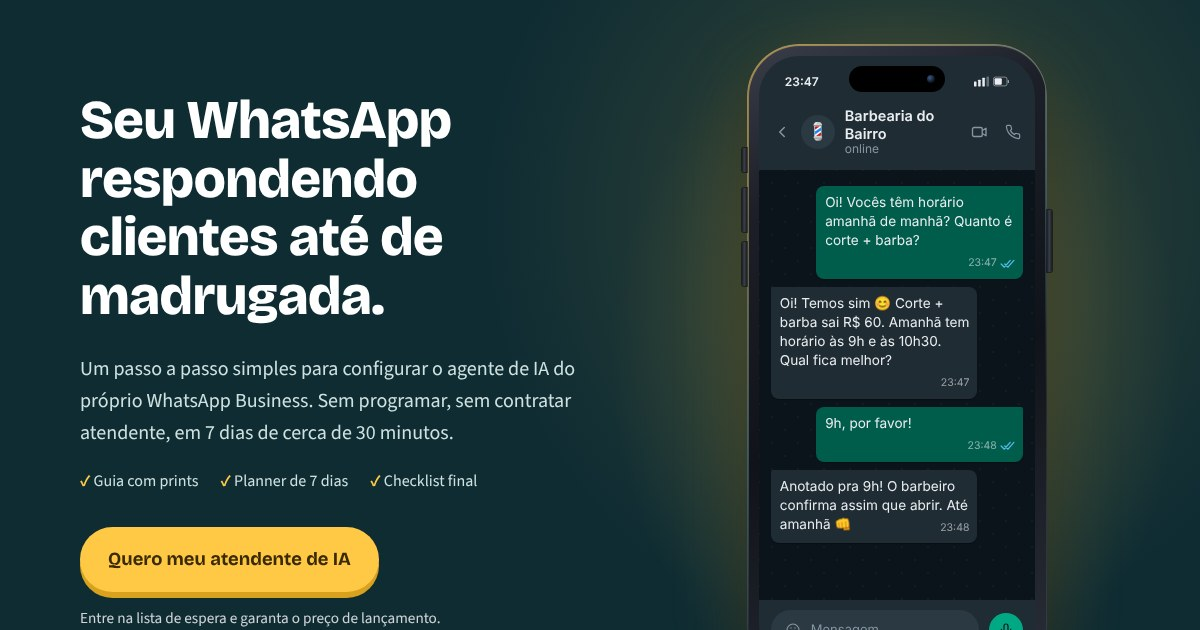
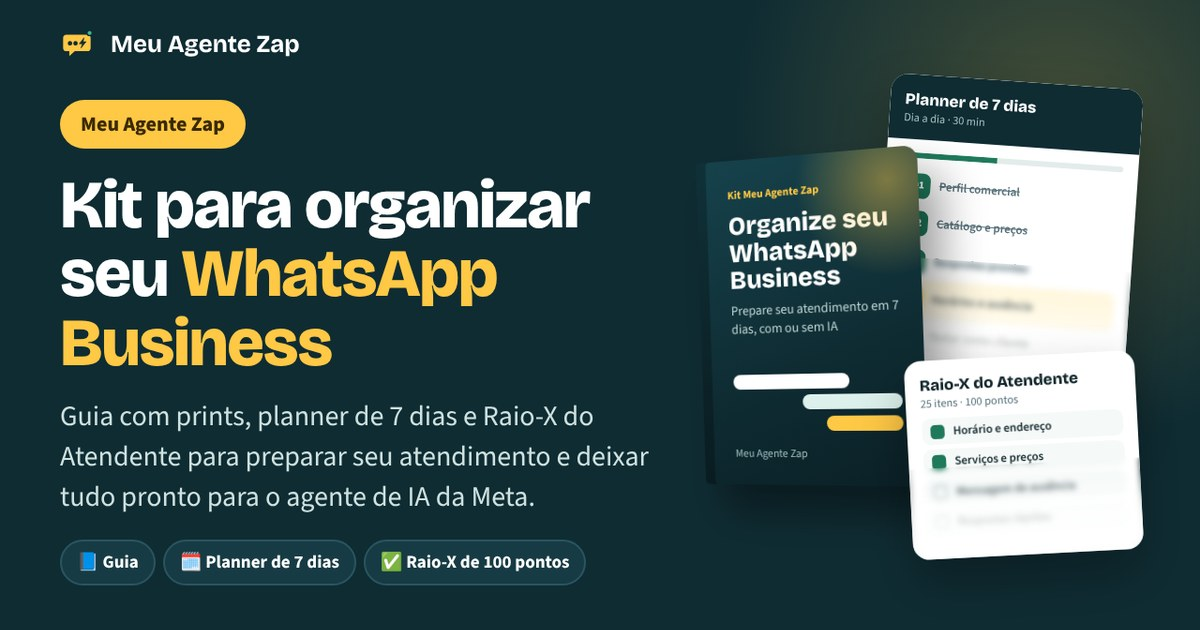
Site: CTAs direto ao checkout, faixa de nichos no mobile, redes sociais e WhatsApp, CTA no meio, hero com botão visível
Claude-Session: https://claude.ai/code/session_01VVXSWQenri3WwETC67snQx

diff --git a/index.html b/index.html
@@ -47,7 +47,7 @@ fbq('track', 'PageView');
 html{scroll-behavior:smooth;scroll-padding-top:84px}
 body{margin:0;background:var(--paper);color:var(--ink);font-family:"Source Sans 3",system-ui,sans-serif;font-size:1.125rem;line-height:1.6;-webkit-font-smoothing:antialiased}
 h1,h2,h3{font-family:"Bricolage Grotesque",system-ui,sans-serif;line-height:1.05;margin:0 0 .45em;letter-spacing:-.02em}
-h1{font-size:clamp(2.5rem,6.6vw,4.6rem);font-weight:800}
+h1{font-size:clamp(2.2rem,5vw,3.3rem);font-weight:800}
 h2{font-size:clamp(1.9rem,4.4vw,3rem);font-weight:800}
 h3{font-size:1.25rem;font-weight:700;letter-spacing:-.01em}
 p{margin:0 0 1em}
@@ -172,10 +172,28 @@ section{padding:96px 0}
 @media(max-width:520px){.float-card{display:none}}
 
 /* Faixa de nichos */
-.niches-band{background:var(--deep);color:#CFE2E0;padding:26px 0;border-top:1px solid rgba(255,255,255,.06)}
-.niches-band .wrap{display:flex;flex-wrap:wrap;align-items:center;justify-content:center;gap:10px 12px}
-.niches-band .lbl{font-weight:600;color:#8FB0B4;margin-right:6px}
+.niches-band{background:var(--deep);color:#CFE2E0;padding:30px 0;border-top:1px solid rgba(255,255,255,.06)}
+.niches-band .wrap{display:flex;flex-direction:column;align-items:center;gap:16px}
+.niches-band .lbl{margin:0;font-weight:700;color:#CFE2E0;font-size:1.05rem;text-align:center}
+.niches-band .chips{display:flex;flex-wrap:wrap;justify-content:center;gap:10px 12px}
+@media(max-width:600px){.niches-band .chips{display:grid;grid-template-columns:1fr 1fr;gap:10px;width:100%;max-width:420px}.niches-band .chip{justify-content:center;padding:10px 8px;font-size:.95rem;text-align:center}}
+.tag .old{font-weight:600;opacity:.8}
+.micro{margin:0 0 22px;font-size:.92rem;color:#9FC0BE}
+@media(max-width:600px){.hero-ctas .btn{width:100%;justify-content:center;text-align:center}.hero-ctas{gap:10px}.micro{margin:0 0 20px}.hero .trust{display:none}}
 .chip{display:inline-flex;align-items:center;gap:8px;font-weight:600;font-size:1rem;padding:8px 16px;border-radius:999px;background:rgba(255,255,255,.06);border:1px solid rgba(255,255,255,.1);color:#E7F1F0}
+
+.midcta{padding:0 0 8px;background:var(--paper,#F3F7F6)}
+.midcta-card{display:flex;flex-wrap:wrap;align-items:center;justify-content:space-between;gap:16px 24px;background:#fff;border:2px solid var(--sun);border-radius:24px;padding:22px 26px;box-shadow:0 10px 30px rgba(15,44,51,.08)}
+.midcta-card strong{display:block;font-family:"Bricolage Grotesque",sans-serif;font-size:1.3rem;color:var(--deep)}
+.midcta-card span{display:block;color:#4A6168;font-size:.98rem;margin-top:2px}
+@media(max-width:600px){.midcta-card{flex-direction:column;align-items:stretch;text-align:center}.midcta-card .btn{width:100%;text-align:center;justify-content:center}}
+
+.helpbox{display:flex;flex-wrap:wrap;align-items:center;justify-content:space-between;gap:16px 24px;margin-top:28px;background:#E2F2EC;border:1px solid #BFE3D3;border-radius:24px;padding:22px 26px}
+.helpbox strong{display:block;font-family:"Bricolage Grotesque",sans-serif;font-size:1.2rem;color:var(--deep)}
+.helpbox span{display:block;color:#35564C;font-size:.98rem;margin-top:2px}
+.btn.wa{background:#1FA855;color:#fff;box-shadow:none;gap:10px}
+.btn.wa:hover{background:#178a45}
+@media(max-width:600px){.helpbox{flex-direction:column;align-items:stretch;text-align:center}.helpbox .btn{justify-content:center}}
 
 /* Antes x depois */
 .compare{display:grid;gap:20px}
@@ -371,6 +389,9 @@ footer{background:var(--deep);color:#8FB0B4;font-size:.95rem;padding:48px 0 120p
 .foot-grid{display:grid;gap:24px}
 @media(min-width:760px){.foot-grid{grid-template-columns:1fr auto;align-items:start}}
 footer nav{display:flex;flex-wrap:wrap;gap:10px 22px}
+.social{display:flex;gap:12px;margin-top:4px}
+.social a{width:44px;height:44px;border-radius:50%;display:grid;place-items:center;background:rgba(255,255,255,.08);color:#fff;transition:background .15s,transform .15s}
+.social a:hover{background:var(--sun);color:var(--deep);transform:translateY(-2px);text-decoration:none}
 footer a{color:#CFE2E0;text-decoration:none}
 footer a:hover{text-decoration:underline}
 .legal{margin-top:28px;padding-top:22px;border-top:1px solid rgba(255,255,255,.08);font-size:.88rem;line-height:1.6}
@@ -414,8 +435,8 @@ footer a:hover{text-decoration:underline}
 .stack li span{display:block;color:#A9C6C4;font-size:.98rem;line-height:1.4}
 .stack li em{font-style:normal;font-size:.78rem;font-weight:800;background:var(--sun);color:var(--sun-ink);padding:2px 9px;border-radius:999px;margin-left:6px;vertical-align:middle}
 .pay-note{display:block;color:var(--muted);font-size:.9rem;margin-top:10px}
-.hero .avail{margin:18px 0 30px}
-@media(max-width:600px){.hero .avail{margin:16px 0 26px}.hero-ctas{margin-top:0}}
+.hero .avail{margin:0 0 26px}.hero-ctas{margin:26px 0 22px}
+@media(max-width:600px){.hero .avail{margin:0 0 22px}.hero-ctas{margin:22px 0 18px}}
 </style>
 </head>
 <body>
@@ -428,7 +449,7 @@ footer a:hover{text-decoration:underline}
       <a href="#kit">O kit</a>
       <a href="#plano">7 dias</a>
       <a href="#faq">Dúvidas</a>
-      <a class="btn" href="#oferta">Quero o kit</a>
+      <a class="btn js-checkout" href="https://pay.hotmart.com/Q107925846F?off=ozc8m0k7" target="_blank" rel="noopener">Quero o kit</a>
     </div>
   </div>
 </nav>
@@ -436,14 +457,15 @@ footer a:hover{text-decoration:underline}
 <header class="hero" id="top">
   <div class="wrap hero-grid">
     <div>
-      <span class="tag">🚀 Kit de lançamento · R$ 37 (depois R$ 47)</span>
+      <span class="tag">🚀 Lançamento: R$ 37 <span class="old">(depois R$ 47)</span></span>
       <h1>Pare de perder cliente no WhatsApp. <span class="hl">Organize seu atendimento em 7 dias.</span></h1>
       <p class="lead">Guia com prints, planner, Raio-X do Atendente e textos prontos para organizar seu WhatsApp Business e responder seus clientes na hora certa. Sem programar: 7 dias, cerca de 30 minutos por dia.</p>
-      <p class="avail">✨ <strong>Com ou sem o agente de IA da Meta</strong>, o kit deixa seu WhatsApp Business pronto para responder rápido, perder menos clientes e vender mais. <a href="#disponibilidade">Veja como funciona</a></p>
       <div class="hero-ctas">
-        <a class="btn" href="#oferta">Quero o kit por R$ 37</a>
+        <a class="btn js-checkout" href="https://pay.hotmart.com/Q107925846F?off=ozc8m0k7" target="_blank" rel="noopener">Quero o kit por R$ 37</a>
         <a class="btn btn-ghost" href="#kit">Ver o que vem no kit</a>
       </div>
+      <p class="micro">🔒 Pagamento único pela Hotmart · acesso imediato por e-mail · garantia de 7 dias</p>
+      <p class="avail">✨ <strong>Com ou sem o agente de IA da Meta</strong>, o kit deixa seu WhatsApp Business pronto para responder rápido, perder menos clientes e vender mais. <a href="#disponibilidade">Veja como funciona</a></p>
       <div class="trust">
         <span><svg width="16" height="16" viewBox="0 0 24 24" fill="none" aria-hidden="true"><path d="M20 6L9 17l-5-5" stroke="currentColor" stroke-width="3" stroke-linecap="round" stroke-linejoin="round"/></svg>Guia passo a passo com prints</span>
         <span><svg width="16" height="16" viewBox="0 0 24 24" fill="none" aria-hidden="true"><path d="M20 6L9 17l-5-5" stroke="currentColor" stroke-width="3" stroke-linecap="round" stroke-linejoin="round"/></svg>Planner de 7 dias</span>
@@ -504,8 +526,8 @@ footer a:hover{text-decoration:underline}
 
 <div class="niches-band">
   <div class="wrap">
-    <span class="lbl">Com textos prontos para</span>
-    <span class="chip">💈 Barbearias</span><span class="chip">💇 Salões de Beleza</span><span class="chip">✨ Clínicas de Estética</span><span class="chip">🦷 Dentistas</span><span class="chip">🩺 Consultórios</span><span class="chip">🐾 Pet Shops</span>
+    <p class="lbl">Textos prontos para o seu tipo de negócio</p>
+    <div class="chips"><span class="chip">💈 Barbearias</span><span class="chip">💇 Salões de Beleza</span><span class="chip">✨ Clínicas de Estética</span><span class="chip">🦷 Dentistas</span><span class="chip">🩺 Consultórios</span><span class="chip">🐾 Pet Shops</span></div>
   </div>
 </div>
 
@@ -640,6 +662,15 @@ footer a:hover{text-decoration:underline}
   </div>
 </section>
 
+<section class="midcta">
+  <div class="wrap">
+    <div class="midcta-card">
+      <div><strong>Kit completo por R$ 37</strong><span>Guia + Planner + Raio-X + Textos prontos · pagamento único · garantia de 7 dias</span></div>
+      <a class="btn js-checkout" href="https://pay.hotmart.com/Q107925846F?off=ozc8m0k7" target="_blank" rel="noopener">Quero o kit por R$ 37</a>
+    </div>
+  </div>
+</section>
+
 <section class="plan dark" id="plano">
   <div class="wrap">
     <div class="sec-head">
@@ -720,7 +751,7 @@ footer a:hover{text-decoration:underline}
         <span class="from">Preço normal R$ 47</span>
         <div class="now"><small>R$</small><span>37</span></div>
         <span class="inst">preço de lançamento · pagamento único</span>
-        <a class="btn" id="cta-checkout" href="https://pay.hotmart.com/Q107925846F?off=ozc8m0k7" target="_blank" rel="noopener">Garantir meu kit por R$ 37</a>
+        <a class="btn js-checkout" id="cta-checkout" href="https://pay.hotmart.com/Q107925846F?off=ozc8m0k7" target="_blank" rel="noopener">Garantir meu kit por R$ 37</a>
         <p class="secure">Pagamento processado pela Hotmart. Acesso enviado por e-mail.</p>
         <span class="pay-note">Pix ou cartão · 4 PDFs para baixar e usar no celular</span>
         <div class="guar">
@@ -746,7 +777,11 @@ footer a:hover{text-decoration:underline}
       <details><summary>Como pago e como recebo?</summary><p>A compra é feita pela Hotmart, com Pix ou cartão. Assim que o pagamento é confirmado, o acesso chega no seu e-mail.</p></details>
       <details><summary>E se eu comprar e não gostar?</summary><p>Você tem 7 dias de garantia. É só pedir o reembolso pela Hotmart e recebe 100% do valor.</p></details>
       <details><summary>O kit garante mais vendas?</summary><p>Não. Nenhum material pode garantir resultado. O kit ajuda você a organizar o atendimento e a responder mais rápido e com mais clareza. O que acontece com as suas vendas depende do seu negócio.</p></details>
-      <details><summary>E se eu tiver dúvidas?</summary><p>Fale com a gente pelo WhatsApp de suporte: <a href="https://wa.me/5511975049937?text=Ol%C3%A1%21%20Tenho%20uma%20d%C3%BAvida%20sobre%20o%20Kit%20Meu%20Agente%20Zap." target="_blank" rel="noopener">clique aqui</a>.</p></details>
+      <details><summary>E se eu tiver dúvidas?</summary><p>Fale com a gente pelo WhatsApp de suporte: <a href="https://wa.me/5511916960280?text=Ol%C3%A1%21%20Tenho%20uma%20d%C3%BAvida%20sobre%20o%20Kit%20Meu%20Agente%20Zap." target="_blank" rel="noopener">clique aqui</a>.</p></details>
+    </div>
+    <div class="helpbox">
+      <div><strong>Ficou com alguma dúvida?</strong><span>Fale com a gente pelo WhatsApp. Respondemos assim que possível.</span></div>
+      <a class="btn wa" href="https://wa.me/5511916960280?text=Ol%C3%A1%21%20Tenho%20uma%20d%C3%BAvida%20sobre%20o%20Kit%20Meu%20Agente%20Zap." target="_blank" rel="noopener"><svg width="20" height="20" viewBox="0 0 24 24" aria-hidden="true"><path fill="currentColor" d="M12.04 2a9.9 9.9 0 0 0-8.5 14.9L2 22l5.2-1.5A9.9 9.9 0 1 0 12.04 2zm5.8 14.1c-.25.7-1.4 1.3-1.9 1.35-.5.05-1.1.07-1.8-.1-.4-.13-.95-.3-1.6-.6-2.8-1.2-4.6-4-4.75-4.2-.14-.2-1.1-1.5-1.1-2.8s.7-2 .95-2.25c.25-.27.55-.33.73-.33l.5.01c.17 0 .4-.06.6.45.25.6.85 2.1.93 2.25.07.15.12.33.02.52-.1.2-.15.33-.3.5-.15.18-.3.38-.45.5-.15.15-.3.3-.13.6.17.3.77 1.27 1.65 2.05 1.13 1 2.1 1.3 2.4 1.45.3.15.47.12.65-.08.17-.2.75-.87.95-1.17.2-.3.4-.25.67-.15.27.1 1.7.8 2 .95.3.15.5.22.57.35.07.12.07.7-.17 1.4z"/></svg>Chamar no WhatsApp</a>
     </div>
   </div>
 </section>
@@ -756,7 +791,7 @@ footer a:hover{text-decoration:underline}
     <div class="final-card">
       <h2>Seu próximo cliente pode mandar mensagem hoje à noite.</h2>
       <p>Deixe o seu WhatsApp Business organizado para responder melhor. Em 7 dias, cerca de 30 minutos por dia, com garantia de 7 dias.</p>
-      <a class="btn" href="#oferta">Quero o kit por R$ 37</a>
+      <a class="btn js-checkout" href="https://pay.hotmart.com/Q107925846F?off=ozc8m0k7" target="_blank" rel="noopener">Quero o kit por R$ 37</a>
     </div>
   </div>
 </section>
@@ -768,21 +803,21 @@ footer a:hover{text-decoration:underline}
       <nav aria-label="Rodapé">
         <a href="termos.html">Termos de uso</a>
         <a href="privacidade.html">Política de privacidade</a>
-        <a href="https://wa.me/5511975049937?text=Ol%C3%A1%21%20Tenho%20uma%20d%C3%BAvida%20sobre%20o%20Kit%20Meu%20Agente%20Zap." target="_blank" rel="noopener">Suporte</a>
-        <a href="https://instagram.com/meuagentezap.ia" target="_blank" rel="noopener">Instagram @meuagentezap.ia</a>
+        <a href="https://wa.me/5511916960280?text=Ol%C3%A1%21%20Tenho%20uma%20d%C3%BAvida%20sobre%20o%20Kit%20Meu%20Agente%20Zap." target="_blank" rel="noopener">Suporte no WhatsApp</a>
       </nav>
+      <div class="social"><a href="https://www.instagram.com/meuagentezap.ia/" target="_blank" rel="noopener" aria-label="Instagram @meuagentezap.ia" title="Instagram @meuagentezap.ia"><svg width="22" height="22" viewBox="0 0 24 24" aria-hidden="true"><path fill="currentColor" d="M7.8 2h8.4A5.8 5.8 0 0 1 22 7.8v8.4a5.8 5.8 0 0 1-5.8 5.8H7.8A5.8 5.8 0 0 1 2 16.2V7.8A5.8 5.8 0 0 1 7.8 2zm-.2 2A3.6 3.6 0 0 0 4 7.6v8.8A3.6 3.6 0 0 0 7.6 20h8.8a3.6 3.6 0 0 0 3.6-3.6V7.6A3.6 3.6 0 0 0 16.4 4H7.6zm9.65 1.5a1.25 1.25 0 1 1 0 2.5 1.25 1.25 0 0 1 0-2.5zM12 7a5 5 0 1 1 0 10 5 5 0 0 1 0-10zm0 2a3 3 0 1 0 0 6 3 3 0 0 0 0-6z"/></svg></a><a href="https://www.facebook.com/people/Meu-Agente-Zap/61594888123354/" target="_blank" rel="noopener" aria-label="Facebook Meu Agente Zap" title="Facebook Meu Agente Zap"><svg width="22" height="22" viewBox="0 0 24 24" aria-hidden="true"><path fill="currentColor" d="M13.5 22v-8.2h2.8l.5-3.3h-3.3V8.4c0-.95.4-1.7 1.8-1.7h1.6V3.8c-.3 0-1.3-.1-2.4-.1-2.5 0-4.1 1.5-4.1 4.2v2.6H7.6v3.3h2.8V22h3.1z"/></svg></a><a href="https://wa.me/5511916960280?text=Ol%C3%A1%21%20Tenho%20uma%20d%C3%BAvida%20sobre%20o%20Kit%20Meu%20Agente%20Zap." target="_blank" rel="noopener" aria-label="WhatsApp de suporte" title="WhatsApp de suporte"><svg width="22" height="22" viewBox="0 0 24 24" aria-hidden="true"><path fill="currentColor" d="M12.04 2a9.9 9.9 0 0 0-8.5 14.9L2 22l5.2-1.5A9.9 9.9 0 1 0 12.04 2zm5.8 14.1c-.25.7-1.4 1.3-1.9 1.35-.5.05-1.1.07-1.8-.1-.4-.13-.95-.3-1.6-.6-2.8-1.2-4.6-4-4.75-4.2-.14-.2-1.1-1.5-1.1-2.8s.7-2 .95-2.25c.25-.27.55-.33.73-.33l.5.01c.17 0 .4-.06.6.45.25.6.85 2.1.93 2.25.07.15.12.33.02.52-.1.2-.15.33-.3.5-.15.18-.3.38-.45.5-.15.15-.3.3-.13.6.17.3.77 1.27 1.65 2.05 1.13 1 2.1 1.3 2.4 1.45.3.15.47.12.65-.08.17-.2.75-.87.95-1.17.2-.3.4-.25.67-.15.27.1 1.7.8 2 .95.3.15.5.22.57.35.07.12.07.7-.17 1.4z"/></svg></a></div>
     </div>
     <div class="legal">
       <p>Meu Agente Zap · CNPJ 39.680.100/0001-41</p>
       <p>Este produto não é afiliado, patrocinado ou endossado pela Meta ou pelo WhatsApp. WhatsApp é marca registrada da Meta Platforms, Inc. A disponibilidade do agente de IA depende da Meta. Os exemplos de conversa são ilustrativos.</p>
-      <p>Contato: <a href="mailto:contato@meuagentezap.com">contato@meuagentezap.com</a></p>
+      <p>Contato: <a href="mailto:contato@meuagentezap.com">contato@meuagentezap.com</a> · WhatsApp <a href="https://wa.me/5511916960280?text=Ol%C3%A1%21%20Tenho%20uma%20d%C3%BAvida%20sobre%20o%20Kit%20Meu%20Agente%20Zap." target="_blank" rel="noopener">(11) 91696-0280</a></p>
     </div>
   </div>
 </footer>
 
 <div class="sticky" id="sticky" aria-hidden="true">
   <div class="p">R$ 37<small>Preço de lançamento</small></div>
-  <a class="btn" href="#oferta" tabindex="-1">Quero o kit</a>
+  <a class="btn js-checkout" href="https://pay.hotmart.com/Q107925846F?off=ozc8m0k7" target="_blank" rel="noopener" tabindex="-1">Quero o kit</a>
 </div>
 
 <script>
@@ -860,8 +895,8 @@ footer a:hover{text-decoration:underline}
   window.addEventListener('scroll',check,{passive:true});check();
 })();
 // Evento do pixel ao clicar para ir ao checkout
-document.getElementById('cta-checkout').addEventListener('click',function(){
-  if(window.fbq){fbq('track','InitiateCheckout');}
+document.querySelectorAll('.js-checkout').forEach(function(a){
+  a.addEventListener('click',function(){ if(window.fbq){fbq('track','InitiateCheckout');} });
 });
 </script>
 </body>

diff --git a/privacidade.html b/privacidade.html
@@ -35,7 +35,7 @@ footer a{color:#CFE2E0}
 <p>Pelo tempo necessário para as finalidades acima ou para cumprir obrigações legais. Você pode pedir a exclusão a qualquer momento.</p>
 
 <h2>5. Seus direitos</h2>
-<p>Você pode pedir acesso, correção, exclusão dos seus dados a qualquer momento, basta mandar uma mensagem pelo <a href="https://wa.me/5511975049937" target="_blank" rel="noopener">WhatsApp de suporte</a>. Para parar de receber avisos, responda "SAIR".</p>
+<p>Você pode pedir acesso, correção, exclusão dos seus dados a qualquer momento, basta mandar uma mensagem pelo <a href="https://wa.me/5511916960280" target="_blank" rel="noopener">WhatsApp de suporte</a>. Para parar de receber avisos, responda "SAIR".</p>
 
 <h2>6. Cookies</h2>
 <p>Você pode bloquear ou apagar cookies nas configurações do seu navegador. Isso não impede o uso do site.</p>

diff --git a/termos.html b/termos.html
@@ -42,7 +42,7 @@ footer a{color:#CFE2E0}
 <p>O kit é para uso pessoal do comprador e do seu próprio negócio. Não é permitido revender, redistribuir, publicar ou compartilhar o conteúdo, total ou parcialmente, sem autorização por escrito.</p>
 
 <h2>8. Contato</h2>
-<p>Dúvidas sobre estes termos: <a href="https://wa.me/5511975049937" target="_blank" rel="noopener">WhatsApp de suporte</a>.</p>
+<p>Dúvidas sobre estes termos: <a href="https://wa.me/5511916960280" target="_blank" rel="noopener">WhatsApp de suporte</a>.</p>
 </main>
 <footer><p><a href="./">Início</a> · <a href="termos.html">Termos de uso</a> · <a href="privacidade.html">Política de privacidade</a></p>
 <p>Meu Agente Zap · CNPJ 39.680.100/0001-41</p>
